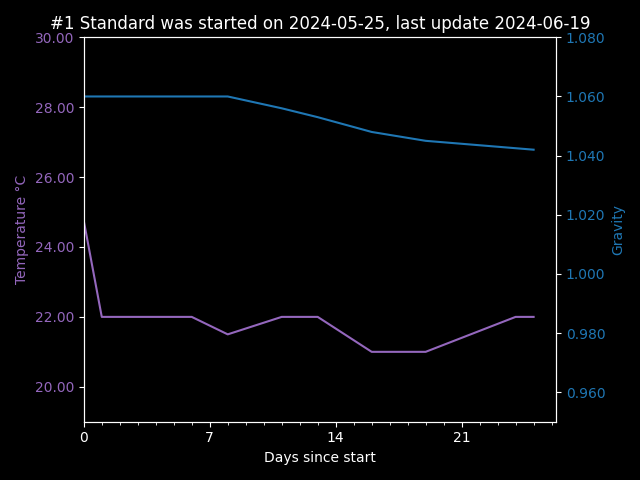
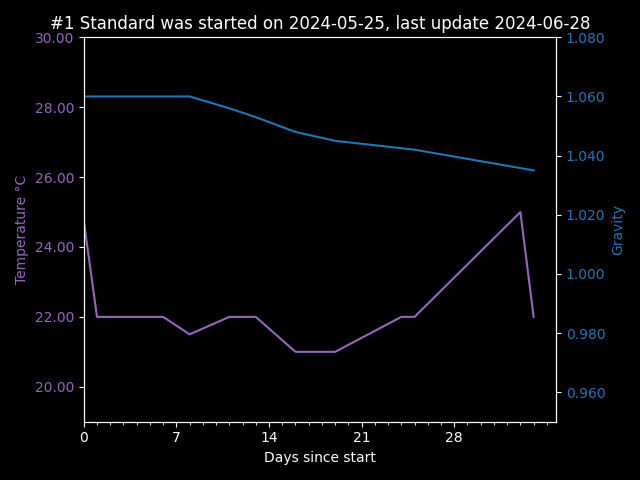
2024-06-25

diff --git a/Recipe List/#3 Mojito.md b/Recipe List/#3 Mojito.md
@@ -32,6 +32,8 @@ Yeast Food:
         - Done 2024-06-23
 - feed #2
     - Fermaid O: 3 grams day 3
+      - Done 2024-06-27
+      - caused quite the energetic reaction, had to replace the bubbler 
 - feed #3
     - Fermaid O: 3 grams at addition of Honey - at or below 1.050 grav
 
@@ -39,8 +41,7 @@ Yeast Food:
 
 - Start gravity
     - Expected:1.137
-    - Expected: 1.094 pre step feeding
-    - Actual: 1.065 before step 1 honey addition
+    - Actual: 1.094 before step 1 honey addition
 - Final gravity
     - Expected:1.000
     - Actual:
@@ -52,11 +53,11 @@ Yeast Food:
 
 | Date       | Temperature  °C | Gravity | PH  | Notes |
 |------------|-----------------|---------|-----|-------|
-| 2024-06-23 | 23.00           | 1.060   |     |       |
+| 2024-06-23 | 23.00           | 1.094   |     |       |
 | 2024-06-24 | 24.00           |         |     |       |
 | 2024-06-25 | 24.00           |         |     |       |
-|            |                 |         |     |       |
-|            |                 |         |     |       |
+| 2024-06-27 | 25.00           |         |     |       |
+| 2024-06-28 | 22.00           | 1.052   |     |       |
 |            |                 |         |     |       |
 |            |                 |         |     |       |
 |            |                 |         |     |       |

diff --git a/Recipe List/#4 Orange and Chilli.md b/Recipe List/#4 Orange and Chilli.md
@@ -29,6 +29,8 @@ Yeast Food:
         - Done 2024-06-23
 - feed #2
     - Fermaid O: 3 grams day 3
+      - Done 2024-06-27
+      - a small reaction, I think this is going to be a slower brew, possibly due to the chilli? 
 - feed #3
     - Fermaid O: 3 grams at addition of Honey - at or below 1.050 grav
 
@@ -48,11 +50,11 @@ Yeast Food:
 
 | Date       | Temperature  °C | Gravity | PH  | Notes |
 |------------|-----------------|---------|-----|-------|
-| 2024-06-23 | 23.00           | 1.095   |     |       |
+| 2024-06-23 | 23.00           | 1.650   |     |       |
 | 2024-06-24 | 24.00           |         |     |       |
 | 2024-06-25 | 24.00           |         |     |       |
-|            |                 |         |     |       |
-|            |                 |         |     |       |
+| 2024-06-27 | 25.00           |         |     |       |
+| 2024-06-28 | 22.00           | 1.056   |     |       |
 |            |                 |         |     |       |
 |            |                 |         |     |       |
 |            |                 |         |     |       |

diff --git a/Recipe List/#1 Standard.md b/Recipe List/#1 Standard.md
@@ -49,8 +49,8 @@ Yeast Food:
 | 2024-06-13 | 21.00           | 1.045   |     |                                                            |
 | 2024-06-18 | 22.00           |         |     |                                                            |
 | 2024-06-19 | 22.00           | 1.042   | 3.2 |                                                            |
-|            |                 |         |     |                                                            |
-|            |                 |         |     |                                                            |
+| 2024-06-27 | 25.00           |         |     |                                                            |
+| 2024-06-28 | 22.00           | 1.035   |     |                                                            |
 |            |                 |         |     |                                                            |
 |            |                 |         |     |                                                            |
 

diff --git a/Recipe List/#2 Elderflower.md b/Recipe List/#2 Elderflower.md
@@ -49,8 +49,8 @@ Yeast Food:
 | 2024-06-10 | 21.00           | 1.046   |                                                      |
 | 2024-06-13 | 21.00           | 1.043   |                                                      |
 | 2024-06-18 | 22.00           |         |                                                      |
-|            |                 |         |                                                      |
-|            |                 |         |                                                      |
+| 2024-06-27 | 25.00           |         |                                                      |
+| 2024-06-28 | 22.00           | 1.035   |                                                      |
 |            |                 |         |                                                      |
 |            |                 |         |                                                      |
 |            |                 |         |                                                      |
